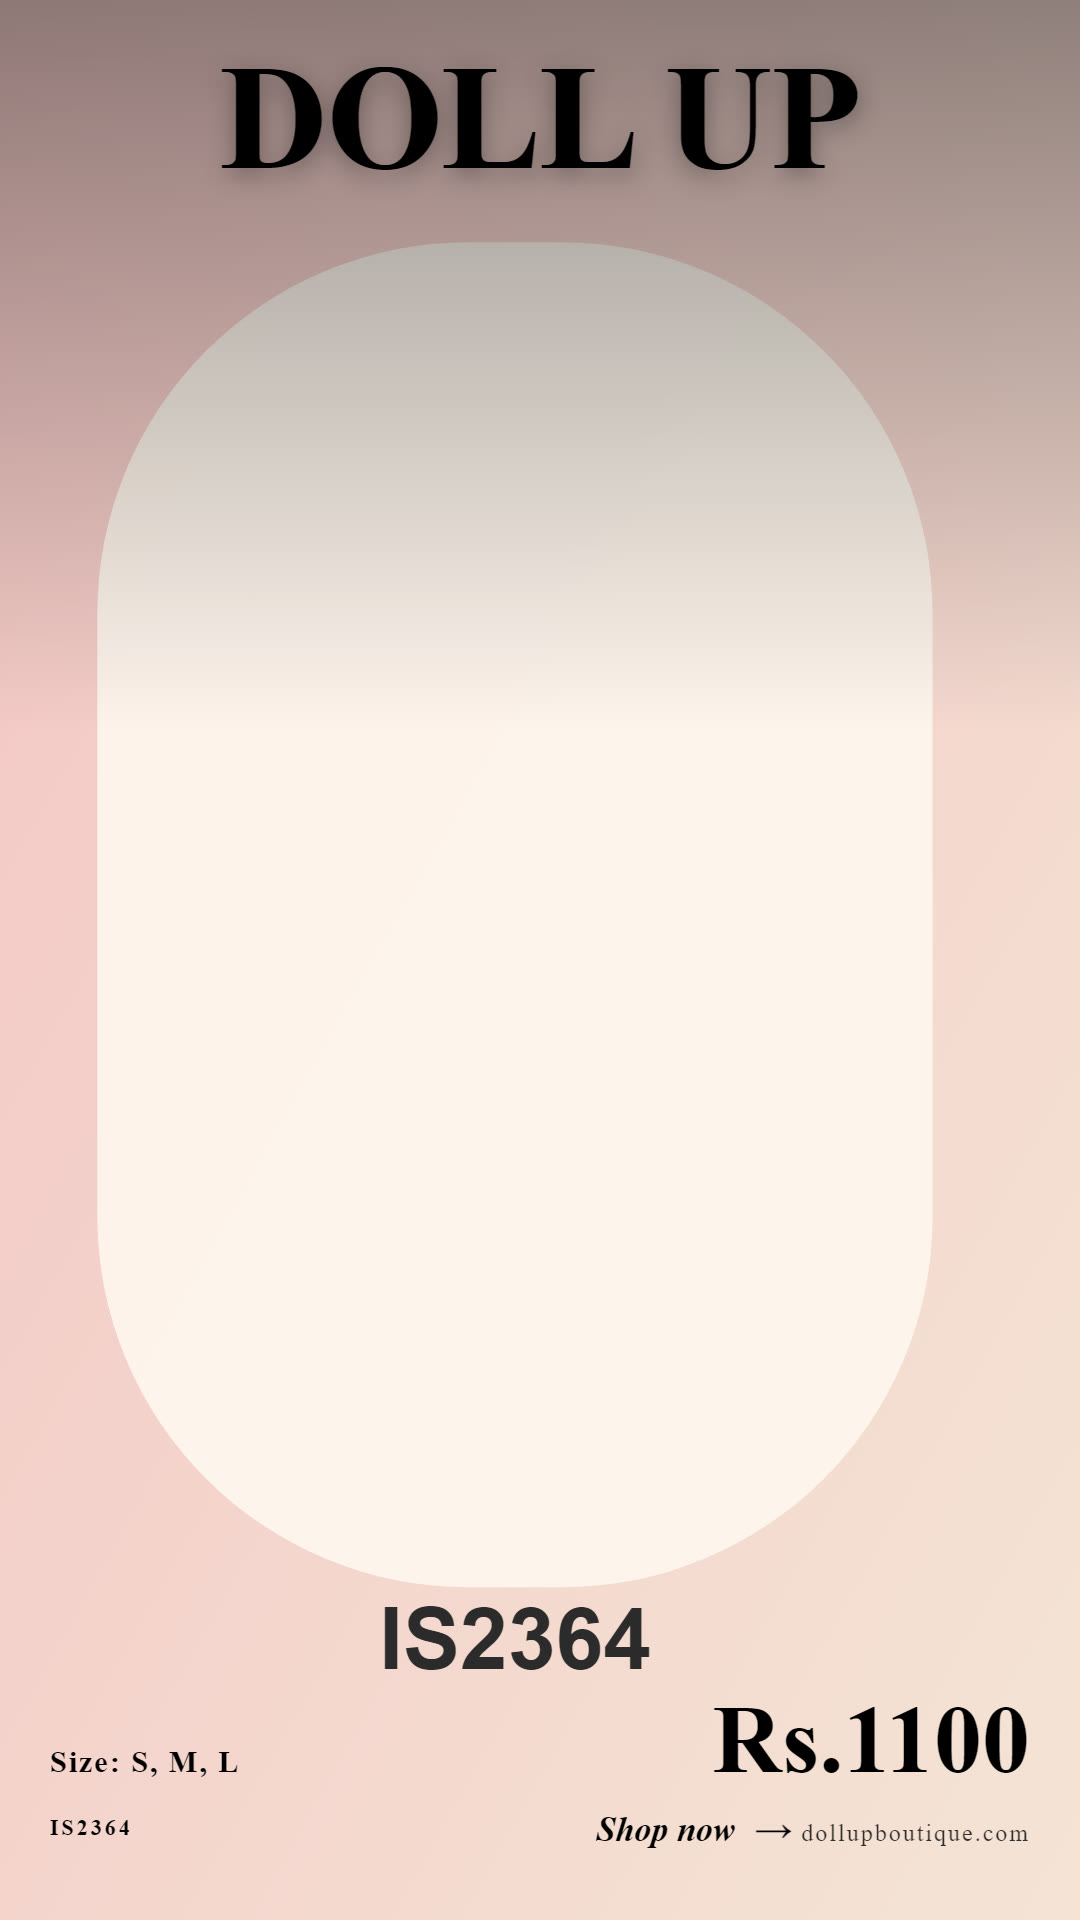
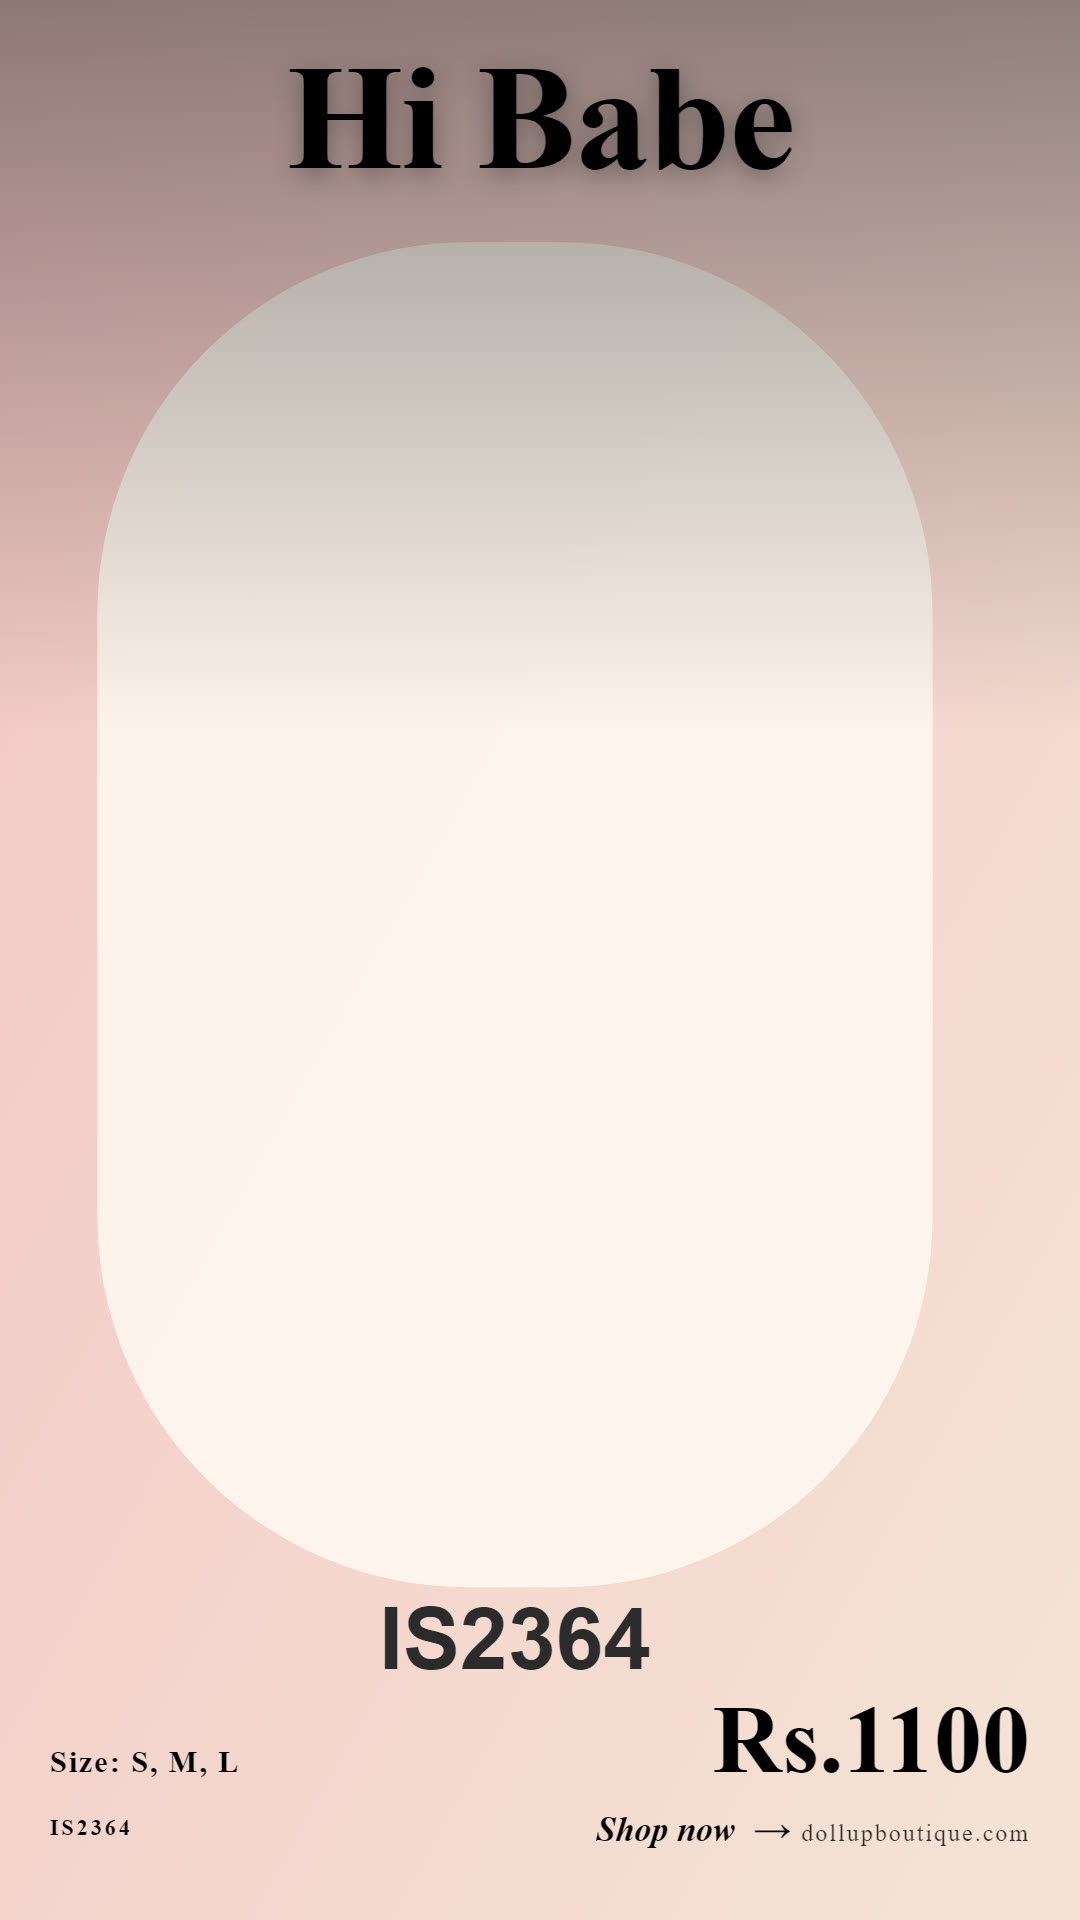
feat(stories): tweak templates per review — drop diagonal, fix cardflip + editorial
- Remove diagonal-2color-wipe entirely (off-brand): template folder,
  TWO_COLOR_FRONT_ROTATION entry, buildTextOverrides case, picker test
  (repurposed to swipe-through), loader enumeration array.
- cardflip-front-back: remove the gold .spine line down the middle of
  the card (showed through the product photo on the flip).
- editorial-cover-hero: masthead 'DOLL UP' -> 'Hi Babe'.

TWO_COLOR_FRONT_ROTATION now [product-2colors-front, swipe-through-2color].
120 stories unit tests green.

Changed region(s): [[0.2139, 0.0312, 0.7944, 0.0938]]

diff --git a/src/modules/stories-render/__tests__/picker.unit.spec.ts b/src/modules/stories-render/__tests__/picker.unit.spec.ts
@@ -337,7 +337,7 @@ describe("pickTemplate", () => {
     expect(picked.text_overrides.size).toBeUndefined()
   })
 
-  it("2-color-no-back rotates the front pool incl diagonal-2color-wipe", () => {
+  it("2-color-no-back rotates the front pool (swipe-through when product-2colors-front is saturated)", () => {
     const s = snapshot({
       name: "Wrap Blouse",
       price_mur: 1190,
@@ -349,10 +349,9 @@ describe("pickTemplate", () => {
     })
     const picked = new Map<string, number>([
       ["product-2colors-front", 2],
-      ["swipe-through-2color", 2],
     ])
     const result = pickTemplate(s, 0, picked)
-    expect(result!.template_slug).toBe("diagonal-2color-wipe")
+    expect(result!.template_slug).toBe("swipe-through-2color")
     expect(result!.slot_inputs.front_a).toBe("https://r2/rose.jpg")
     expect(result!.slot_inputs.front_b).toBe("https://r2/noir.jpg")
     expect(result!.text_overrides.size_a).toContain("S")
@@ -371,7 +370,6 @@ describe("pickTemplate", () => {
     })
     const picked = new Map<string, number>([
       ["product-2colors-front", 2],
-      ["diagonal-2color-wipe", 2],
     ])
     const result = pickTemplate(s, 0, picked)
     expect(result!.template_slug).toBe("swipe-through-2color")

diff --git a/src/modules/stories-render/__tests__/template-loader.unit.spec.ts b/src/modules/stories-render/__tests__/template-loader.unit.spec.ts
@@ -33,8 +33,9 @@ describe("template-loader", () => {
     // product-1color-featured, new-drop-arch, product-2colors each cloned
     // into -blush / -cream / -sage / -coral siblings (16 new folders).
     // 2026-05-30: editorial 1-color (split-thirds-editorial, receipt-tag-1color,
-    // framed-gallery-1color), 2-color-front wipe siblings (diagonal-2color-wipe,
-    // swipe-through-2color), and back template cardflip-front-back added.
+    // framed-gallery-1color), 2-color-front swipe-through-2color, and back
+    // template cardflip-front-back added.
+    // 2026-05-31: diagonal-2color-wipe removed (off-brand).
     const slugs = (await listTemplates(TEMPLATES_ROOT)).map((template) => template.slug)
     expect(slugs).toEqual([
       "bigprice-cutout-hero",
@@ -43,7 +44,6 @@ describe("template-loader", () => {
       "customer-review",
       "cutout-spotlight",
       "cutout-spotlight-v2",
-      "diagonal-2color-wipe",
       "editorial-cover-hero",
       "filmstrip-multiframe",
       "framed-gallery-1color",

diff --git a/src/modules/stories-render/picker.ts b/src/modules/stories-render/picker.ts
@@ -80,10 +80,10 @@ const TWO_COLOR_BACK_ROTATION = [
 // 2-color, FRONT-ONLY (no usable back). Was a single hardcoded
 // product-2colors-front return; 2026-05-30 made a 3-way rotation so
 // consecutive 2-color-no-back products read distinct. Same { front_a,
-// front_b } slot contract across all three.
+// front_b } slot contract across all entries. (diagonal-2color-wipe was
+// removed 2026-05-31 — off-brand.)
 const TWO_COLOR_FRONT_ROTATION = [
   "product-2colors-front",
-  "diagonal-2color-wipe",
   "swipe-through-2color",
 ] as const
 
@@ -415,7 +415,6 @@ function buildTextOverrides(
     case "product-2colors-sage":
     case "product-2colors-coral":
     case "product-2colors-front":
-    case "diagonal-2color-wipe":
     case "swipe-through-2color": {
       // Per-color size pills — variants_in_stock[0..1] match the front_a/front_b
       // slots that pickTemplate fills below, so the size badge on each card

diff --git a/src/story-templates/cardflip-front-back/styles.css b/src/story-templates/cardflip-front-back/styles.css
@@ -22,8 +22,6 @@ html, body { width: var(--story-w); height: var(--story-h); overflow: hidden; }
   box-shadow: 0 30px 60px rgba(43,43,43,.3); background: var(--dub-soft); }
 .face img { width: 100%; height: 100%; object-fit: cover; display: block; }
 .face-back { transform: rotateY(180deg); }
-.spine { position: absolute; top: 0; bottom: 0; left: 50%; width: 8px; transform: translateX(-50%) translateZ(-4px);
-  background: linear-gradient(var(--dub-gold), #b8975c); border-radius: 4px; }
 
 .band { position: absolute; left: 0; right: 0; bottom: 70px; text-align: center;
   animation: rise .6s ease-out .6s both; }

diff --git a/src/story-templates/editorial-cover-hero/index.html b/src/story-templates/editorial-cover-hero/index.html
@@ -11,7 +11,7 @@
       <div class="scene">
         <div class="hero"><img class="hero-img" data-hf-image="hero" alt="" /></div>
         <div class="masthead-scrim" aria-hidden="true"></div>
-        <h1 class="masthead">DOLL UP</h1>
+        <h1 class="masthead">Hi Babe</h1>
         <div class="lower">
           <div class="hairline" aria-hidden="true"></div>
           <div class="lower-row">

diff --git a/src/story-templates/cardflip-front-back/index.html b/src/story-templates/cardflip-front-back/index.html
@@ -14,7 +14,6 @@
           <div class="flipper">
             <div class="face face-front"><img data-hf-image="front" alt="" /></div>
             <div class="face face-back"><img data-hf-image="back" alt="" /></div>
-            <div class="spine" aria-hidden="true"></div>
           </div>
         </div>
         <div class="band">